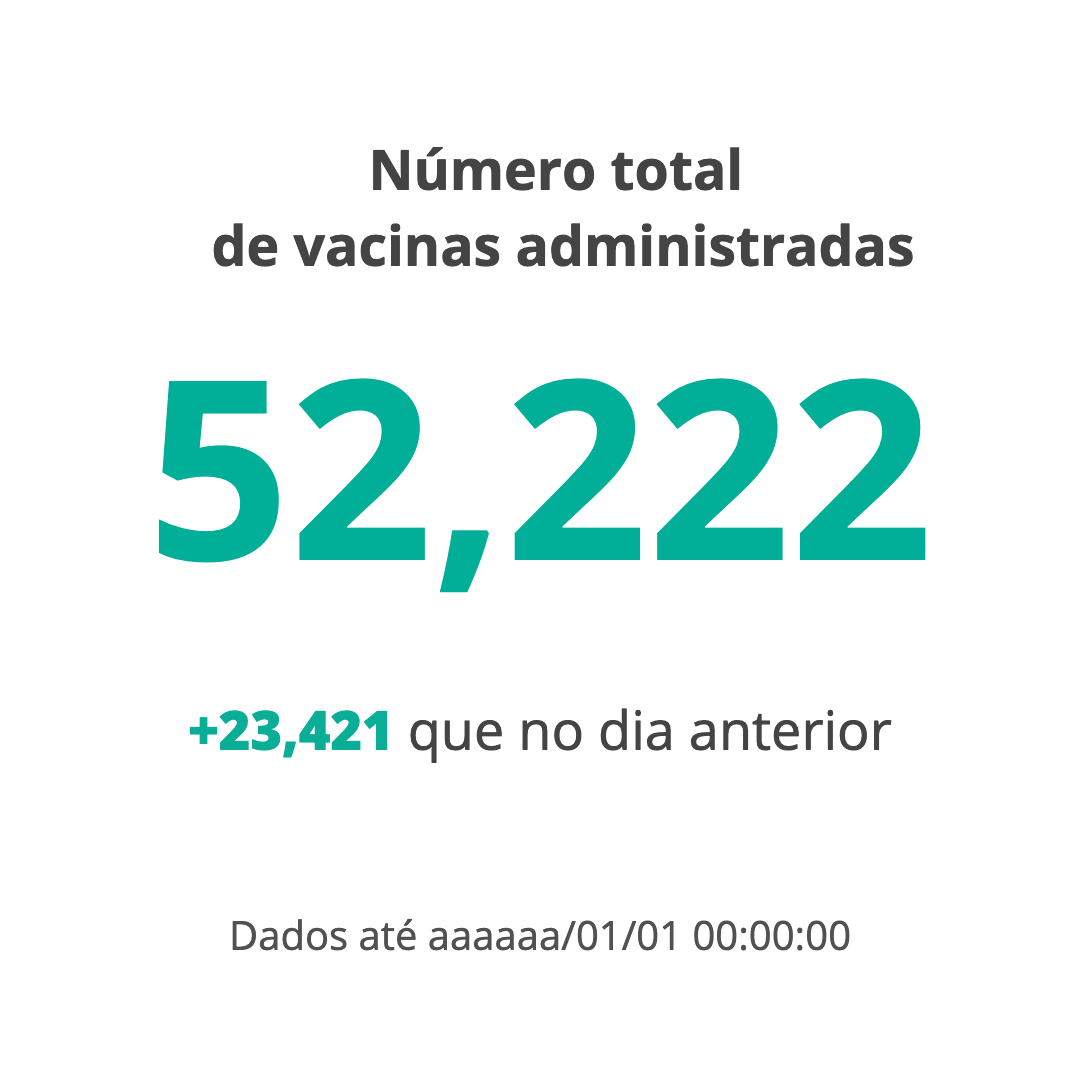
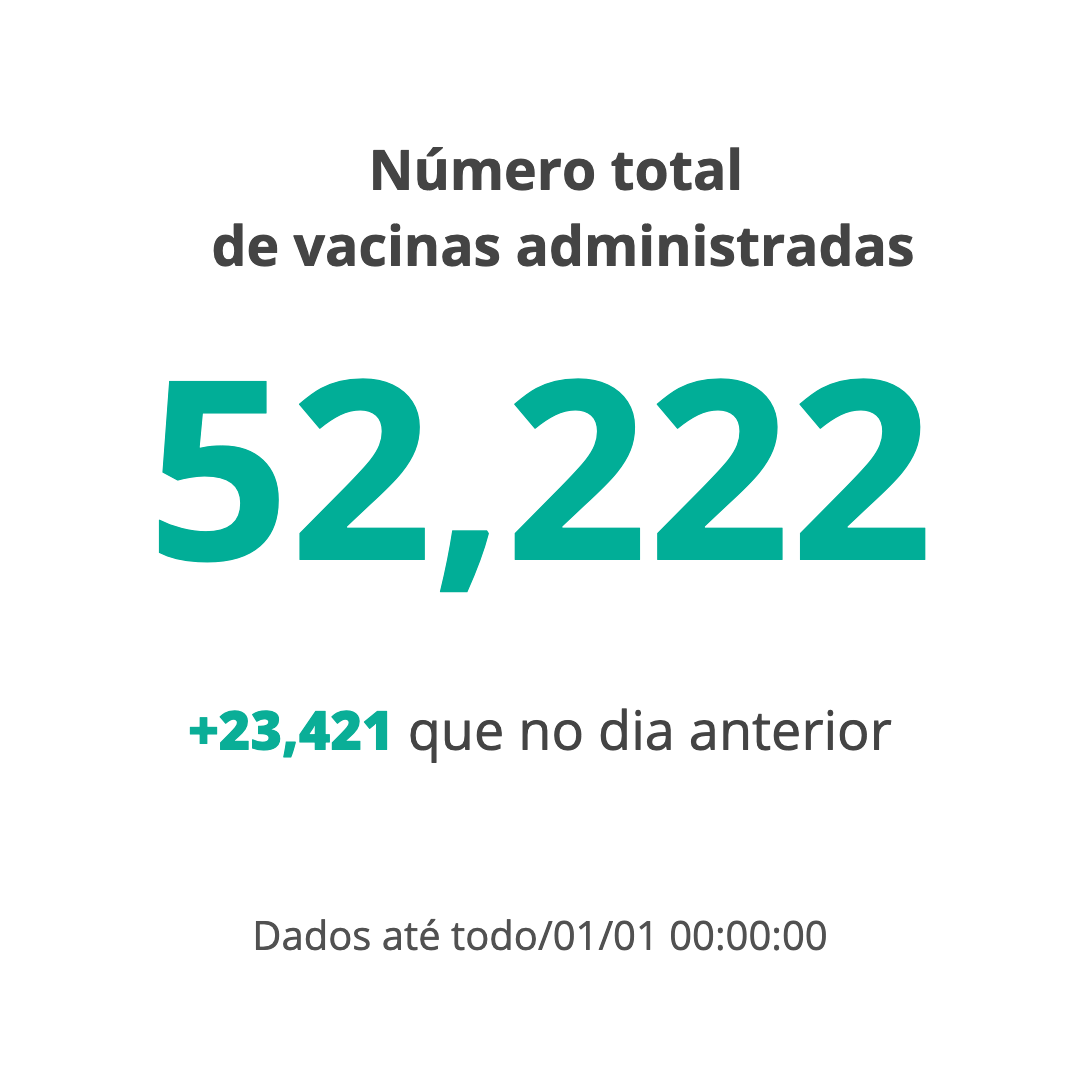
more automation 7

Changed region(s): [[0.2139, 0.8556, 0.7944, 0.8861]]

diff --git a/automation/make_image.js b/automation/make_image.js
@@ -10,6 +10,6 @@ let d = new Date();
 	await page.setContent(contentHtml);
 	await page.setViewport({ width: 1080, height: 1080 });
 	await page.waitForTimeout(1000);
-	await page.screenshot({ path: `image2-${d.getDay().toPrecision(1)}_${d.getMonth().toPrecision(1) + 1}_${d.getFullYear()}.png` });
+	await page.screenshot({ path: `image-${d.getDay().toPrecision(1)}_${d.getMonth().toPrecision(1) + 1}_${d.getFullYear()}.png` });
 	await browser.close();
 })();

diff --git a/automation/image.html b/automation/image.html
@@ -72,7 +72,7 @@
 			window.setTimeout(function () {
 				window.vaccines.innerHTML = '52,222';
 				window.dados.innerHTML = '+23,421';
-				window.data.innerHTML = 'Dados até aaaaaa/01/01 00:00:00';
+				window.data.innerHTML = 'Dados até todo/01/01 00:00:00';
 			}, 100);
 		</script>
 	</body>
